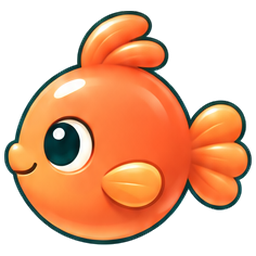
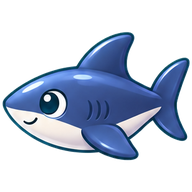
art: 局内 16 种生物（鱼、海星、鲨鱼、螃蟹等）与新图标
c01–c16 换成轮廓各异的 16 种生物并登记主色与轮廓；新增洋流、抽奖、宝箱、
生命、订单卡、技能锁图标；附 64px 彩色与灰度对照图。

diff --git a/art/briefs/batch3_creatures.md b/art/briefs/batch3_creatures.md
@@ -1,0 +1,26 @@
+# 第三批：局内 16 种生物与新图标
+
+规则见 `docs/03-美术规范.md` 第 4.1 节。原图 `art/raw/batch3/creatures.png`、`icons.png`，对照图 `art/raw/batch3/contact.png`（上彩色、下灰度，64px）。
+
+| 编号 | 名字 | 主色 | 花纹 | 轮廓 |
+|---|---|---|---|---|
+| c01 | 小丑丑 | orange | stripe | round |
+| c02 | 泡泡豚 | yellow | spot | ball |
+| c03 | 星星糖 | red | spot | star |
+| c04 | 鲨小宝 | navy | solid | shark |
+| c05 | 钳钳 | vermilion | solid | claws |
+| c06 | 八爪团 | purple | spot | legs |
+| c07 | 卷卷马 | lime | spot | tall |
+| c08 | 果冻伞 | cyan | solid | umbrella |
+| c09 | 慢慢龟 | green | solid | shell |
+| c10 | 飞毯 | indigo | spot | diamond |
+| c11 | 珍珠贝 | amber | solid | clam |
+| c12 | 墨墨 | blue | stripe | squid |
+| c13 | 红须须 | crimson | solid | lobster |
+| c14 | 小灯笼 | azure | spot | lantern |
+| c15 | 尖尖 | teal | stripe | snout |
+| c16 | 跳跳豚 | sky | solid | dolphin |
+
+图标：`tool_current`（洋流）、`tab_wheel`（抽奖页签）、`chest_closed` / `chest_open`（宝箱）、`heart` / `heart_inf`（生命、无限生命）、`order_card`（订单卡底）、`lock_skill`（技能锁）。
+
+蓝色系偏多（鲨、鳐、乌贼、灯笼鱼、海豚、水母、剑鱼），靠轮廓区分；选关时按主色和轮廓去重，同一关不要同时出两个相近的蓝。
